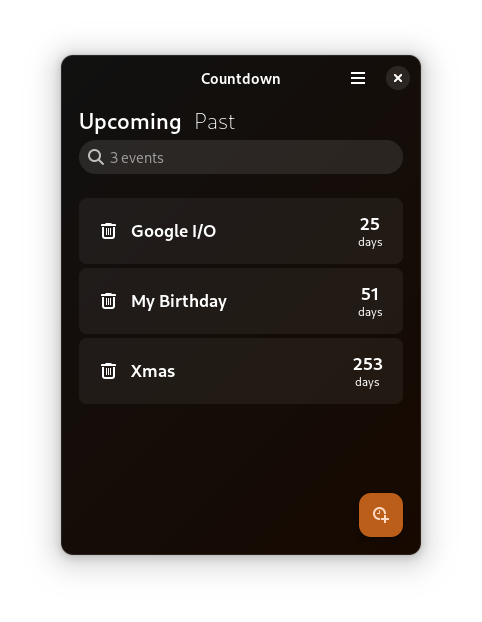
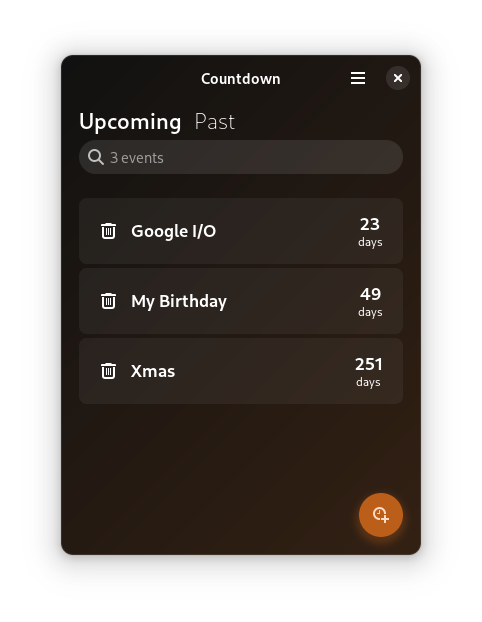
* - Solo 2.0 UI

Changed region(s): [[0.6535, 0.7026, 0.8714, 0.9164], [0.7469, 0.5498, 0.8091, 0.6415], [0.7469, 0.4582, 0.8091, 0.4887]]

diff --git a/src/style.css b/src/style.css
@@ -6,31 +6,24 @@
 
 .list-action-button {
   padding: 10px;
-  border-radius: 12px;
-  box-shadow: 0 1px 3px 0 alpha(black, 0.3),
-              0 4px 8px 3px alpha(black, 0.15);
-}
-.list-action-button:hover {
-  box-shadow: 0 2px 3px 0 alpha(black, 0.3),
-              0 6px 10px 4px alpha(black, 0.15);
-}
-.list-action-button:active {
-  box-shadow: 0 1px 3px 0 alpha(black, 0.3),
-              0 4px 8px 3px alpha(black, 0.15);
+  border-radius: 999px;
 }
 .list-action-button.accent-button {
   background: @accent_bg_color;
   color: @accent_fg_color;
+  box-shadow: 0 4px 8px 3px alpha(@accent_bg_color, 0.30);
 }
 .list-action-button.accent-button:hover {
   background: shade(@accent_bg_color, 1.024);
+  box-shadow: 0 6px 10px 4px alpha(@accent_bg_color, 0.30);
 }
 .list-action-button.accent-button:active {
   background: shade(@accent_bg_color, 0.95);
+  box-shadow: 0 4px 8px 3px alpha(@accent_bg_color, 0.30);
 }
 
 .main-box {
-  background: linear-gradient(135deg, @window_bg_color, #fff5ef);
+  background: linear-gradient(135deg, @window_bg_color, mix(@window_bg_color, @accent_bg_color, 0.2));
 }
 
 .event-row button {

diff --git a/src/style-dark.css b/src/style-dark.css
@@ -4,10 +4,6 @@
 @define-color window_bg_color #111;
 @define-color headerbar_bg_color #111;
 
-.main-box {
-  background: linear-gradient(135deg, @window_bg_color, #170900);
-}
-
 .event-row button {
   background: none;
   margin: 0;
